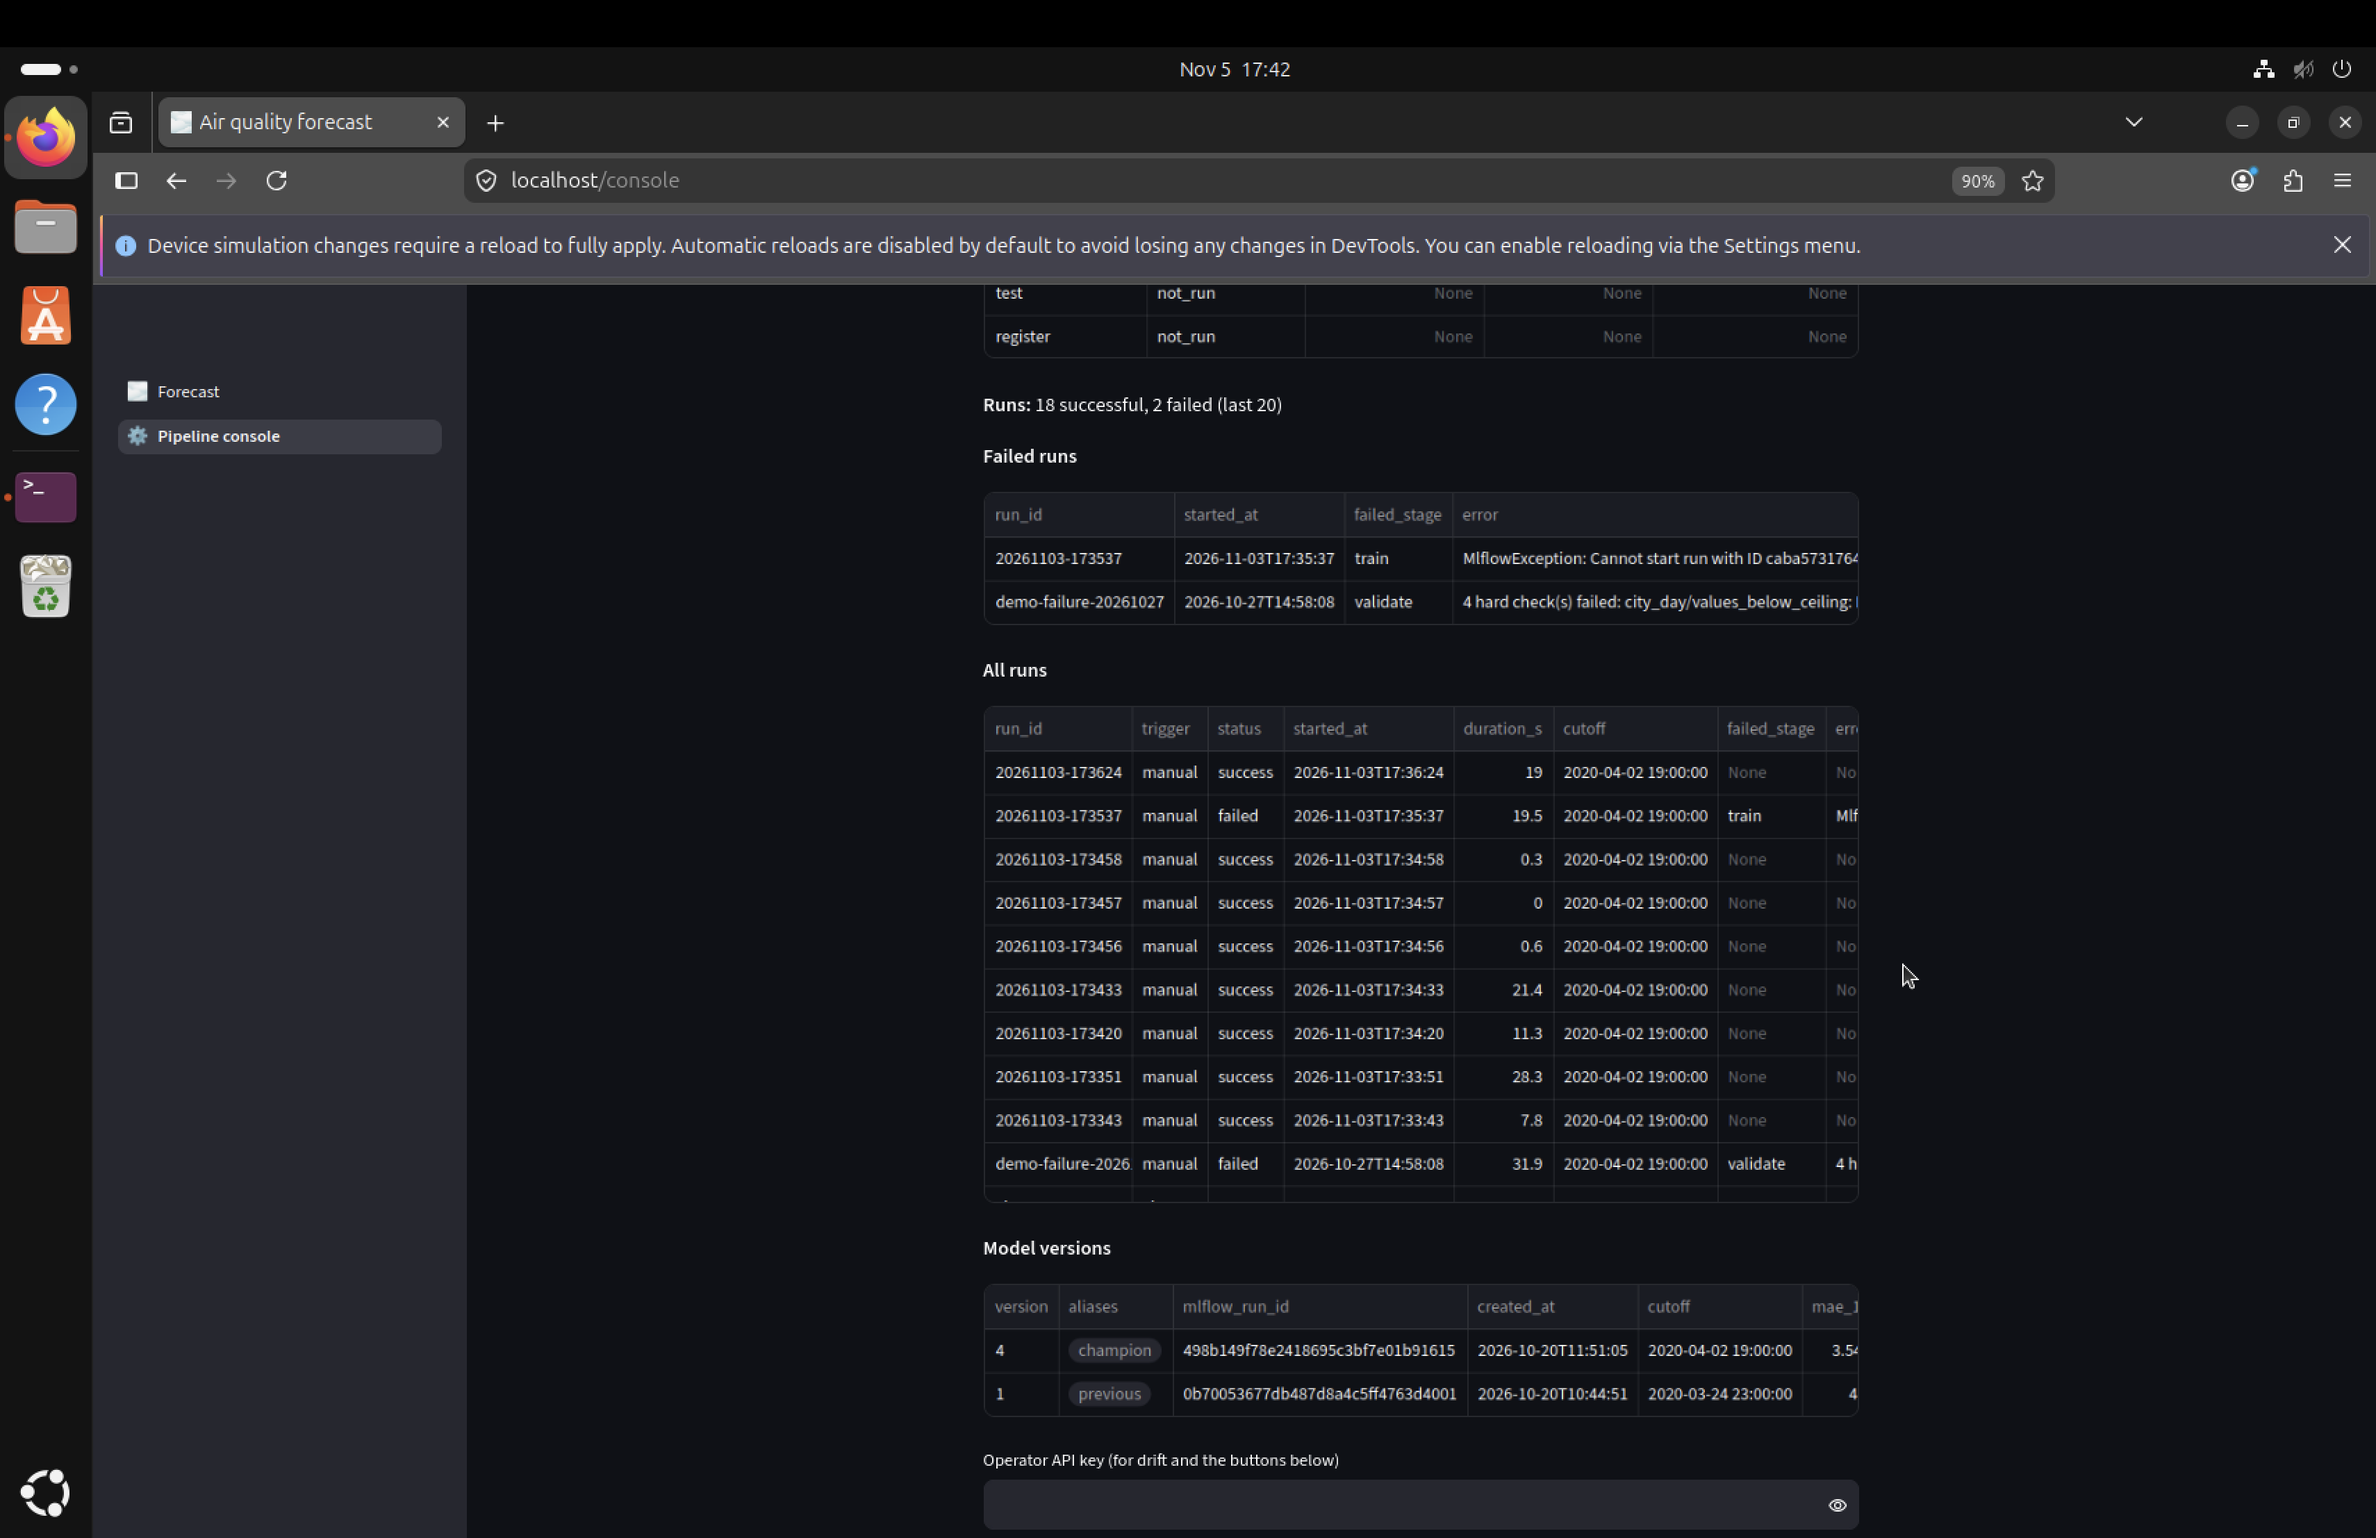
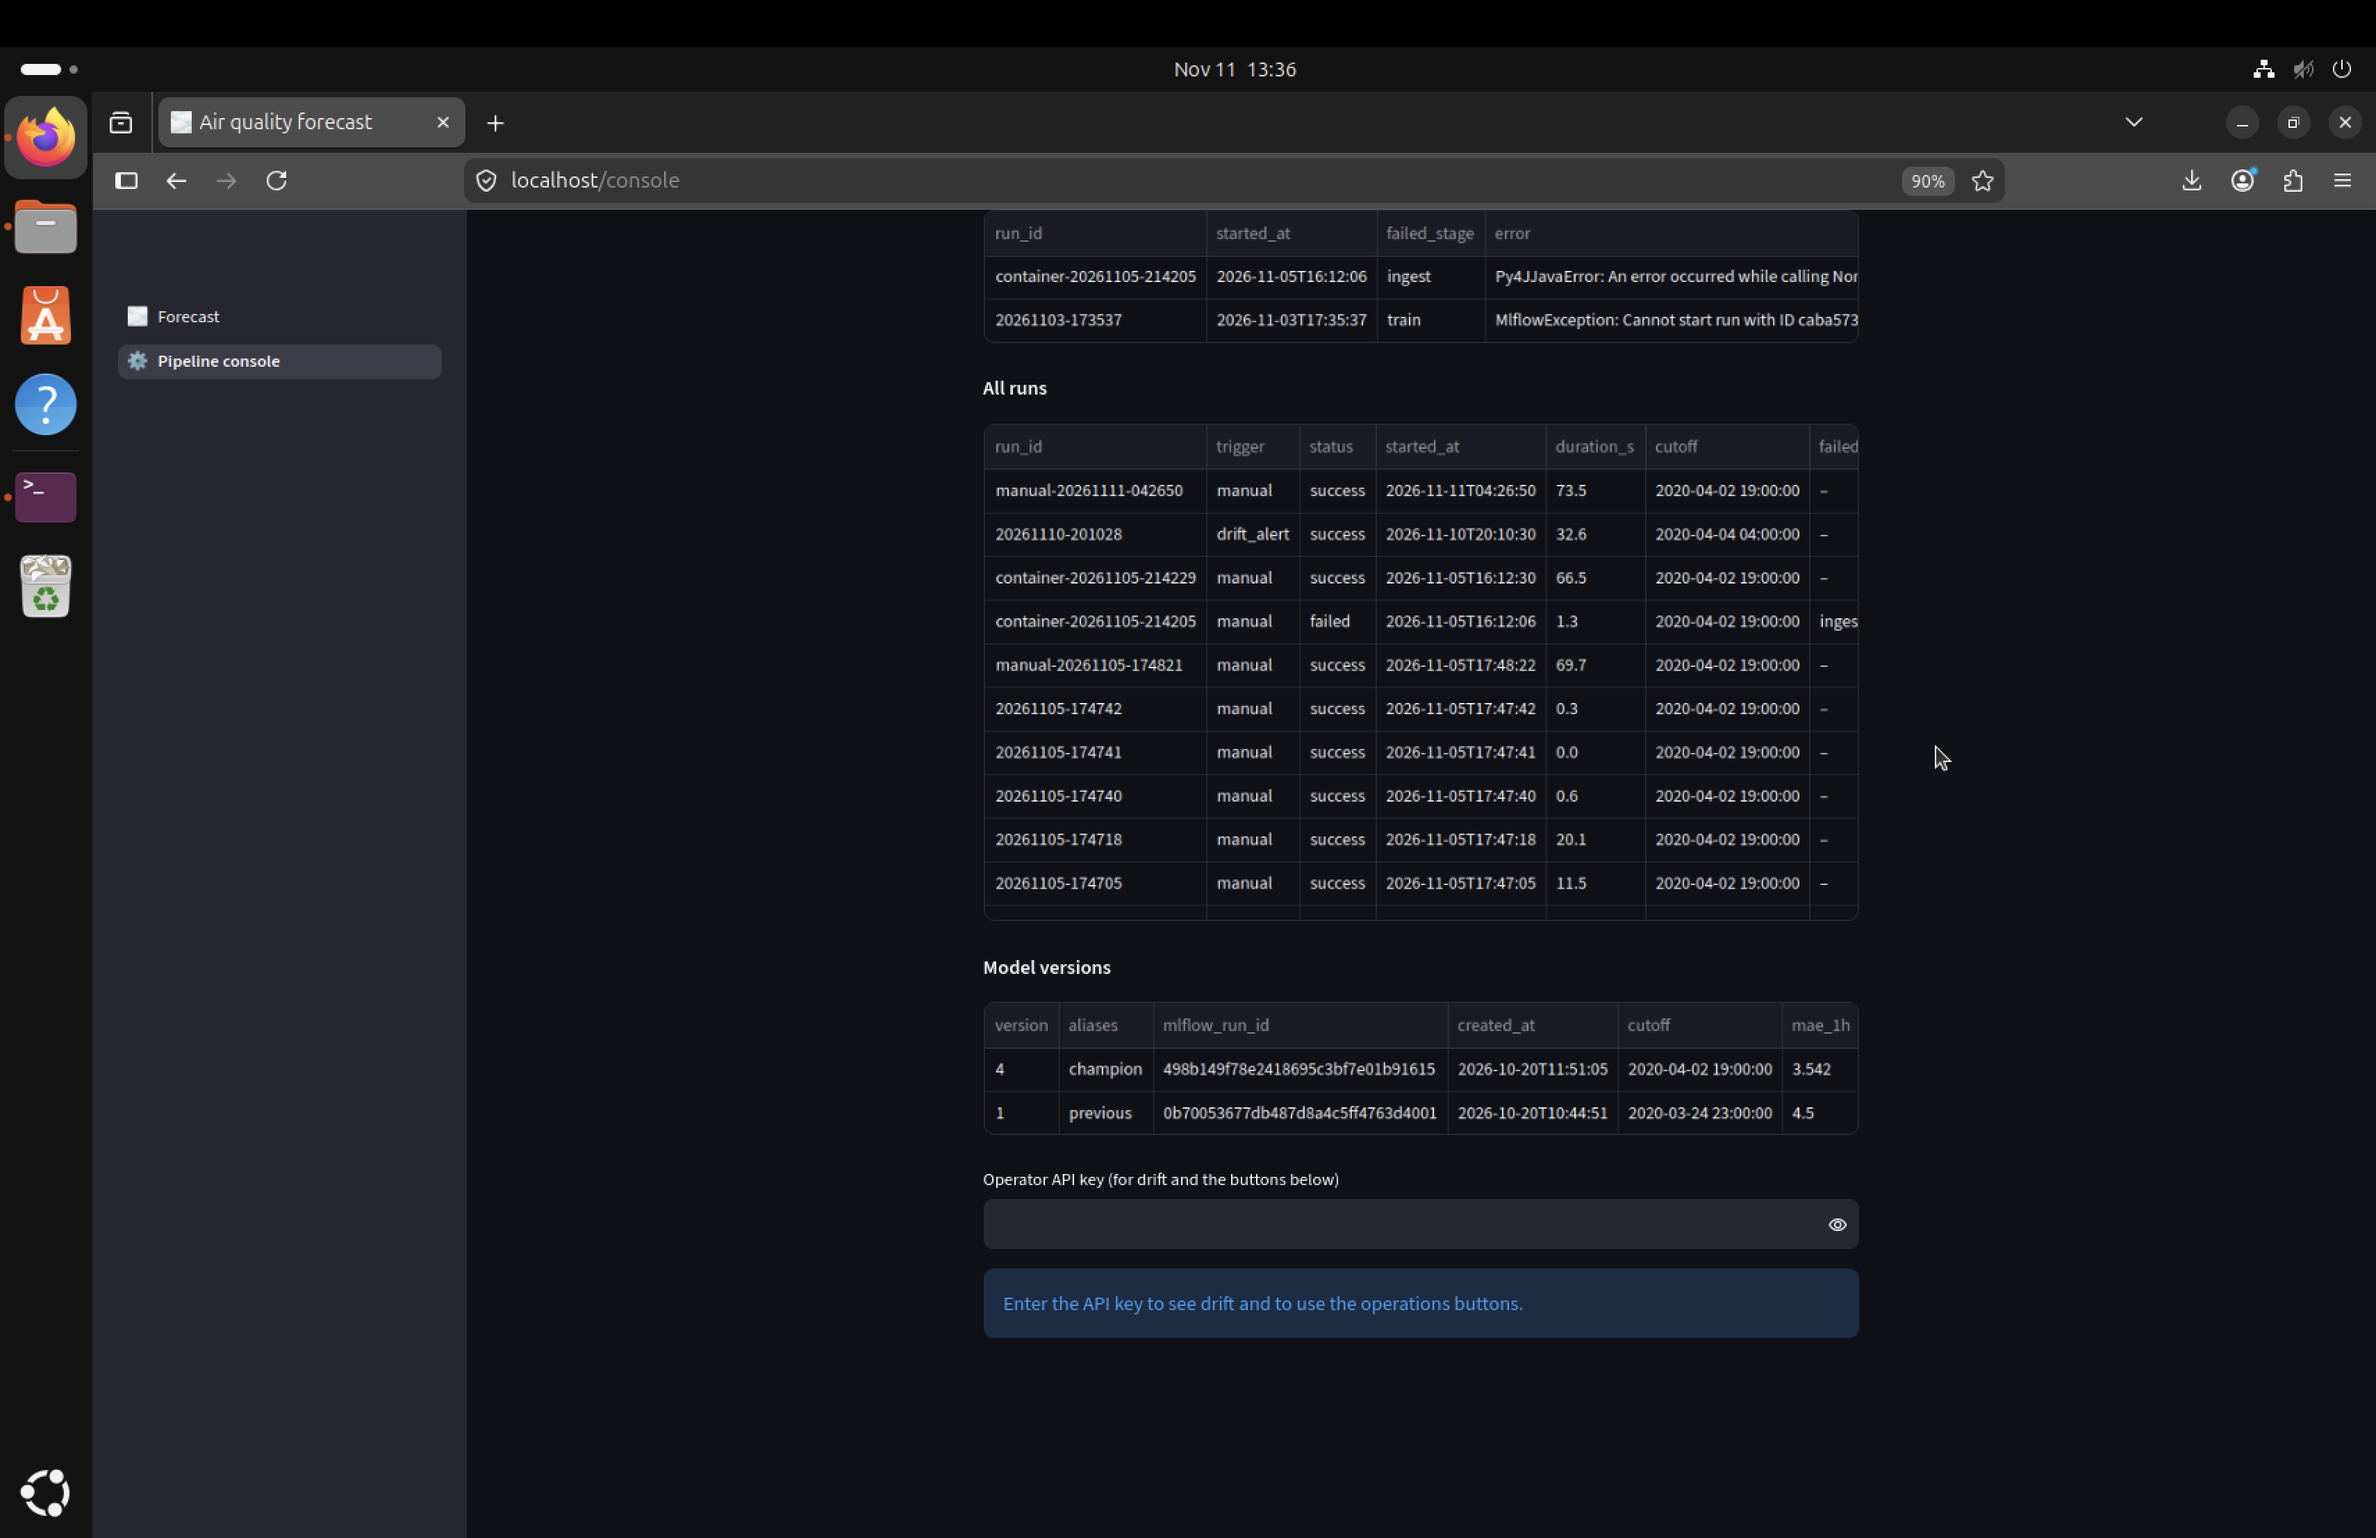
Console screenshots retaken after the 7-stage run, evidence captions, CI log
08/09 in docs/screenshots and 02_pipeline_viz/01 and 02 in the evidence
gallery are hand-taken Firefox captures of /console: last run
manual-20261111-042650 with all 7 stages green, "–" for empty cells.
Evidence index captions and the "What I could not capture" note now
describe that run. CI check run: 371 passed, DVC clean and in sync.

diff --git a/docs/evidence/README.md b/docs/evidence/README.md
@@ -6,6 +6,8 @@ The first capture run made 222 images. I kept the one or two clearest per rubric
 
 **Retaken on 2026-11-11.** Three images showed an old test count, so I retook them on the host with the Pillow renderer (`python scripts/capture_evidence.py terminal-pil --only <path>`), at `acd9531` with the console table change in the workspace: `05_testing/03` (now a transcript of the report's summary section, not the rendered page), `05_testing/05` and `07_source_control_ci/03`. All three show 371 of 371.
 
+**Two console captures taken by hand on 2026-11-11.** After a forced full pipeline run (`manual-20261111-042650`, all 7 stages green) and the frontend rebuild that shows "–" instead of `None` in the tables, I took `02_pipeline_viz/01_console_top` and `02_pipeline_viz/02_runs_and_failures` myself in Firefox at 13:36. They are the same files as `docs/screenshots/08_console_top.png` and `09_console_runs.png`, so they have no dark caption strip. The browser bar shows the URL and the desktop clock shows the time.
+
 **How it was made.** `docs/evidence/` was captured automatically by `scripts/capture_evidence.py` (Playwright in Docker, image `mcr.microsoft.com/playwright/python:v1.49.1-noble`, arm64), written by Claude Code under my direction. `scripts/capture_evidence_host.sh` runs the terminal commands on the host and drives the live story. Run again, the scripts make the full uncurated set under the original file names. The 11 user-manual screenshots in `docs/screenshots/` were taken by me by hand. No browser was installed on the VM, and the Playwright image was removed afterwards.
 
 **The API key** is not in any image or text file. The script types it into the console's masked field (dots only), checks the visible text of every page before saving the screenshot, and stops if the key is there. Commands that use the key show the literal text `$OPS_API_KEY`. The final set was checked again, by text search and by looking at every image with a key field, an ops section or a terminal.
@@ -51,11 +53,11 @@ Paths are relative to this folder.
 
 | Rubric line | Evidence | Caption |
 |---|---|---|
-| Separate UI screen for the pipeline incl. ingestion and engineering | [02_pipeline_viz/01_console_top.png](02_pipeline_viz/01_console_top.png) | `/console`: status boxes, the 7-stage DVC DAG coloured by status, the stage table |
+| Separate UI screen for the pipeline incl. ingestion and engineering | [02_pipeline_viz/01_console_top.png](02_pipeline_viz/01_console_top.png) | `/console`: status boxes (backend ok, model server up, champion 4), the 7-stage DVC DAG coloured by status with all 7 green for `manual-20261111-042650`, the stage table |
 | MLOps tool UIs | [02_pipeline_viz/06_grafana_pipeline.png](02_pipeline_viz/06_grafana_pipeline.png), [08_experiment_tracking/01_runs.png](08_experiment_tracking/01_runs.png) | Grafana "AQ pipeline" over 7 days and MLflow, both linked from the console |
 | Pipeline management console | [02_pipeline_viz/05_ops_section.png](02_pipeline_viz/05_ops_section.png), [02_pipeline_viz/04_drift_with_key.png](02_pipeline_viz/04_drift_with_key.png) | Replay start/stop/reset, retrain and rollback buttons and live drift, behind the masked key |
-| Console of errors, failures and successful runs | [02_pipeline_viz/02_runs_and_failures.png](02_pipeline_viz/02_runs_and_failures.png) | Success and failure counts, the failed runs with stage and error, the run table |
-| Pipeline speed and throughput | [02_pipeline_viz/01_console_top.png](02_pipeline_viz/01_console_top.png), [02_pipeline_viz/06_grafana_pipeline.png](02_pipeline_viz/06_grafana_pipeline.png) | Duration, rows out and rows/sec per stage, and over time in Grafana |
+| Console of errors, failures and successful runs | [02_pipeline_viz/02_runs_and_failures.png](02_pipeline_viz/02_runs_and_failures.png) | Success and failure counts (18 and 2 of the last 20), the two failed runs with stage and error, the run table with `manual-20261111-042650` on top, and the registry with v4 champion and v1 previous |
+| Pipeline speed and throughput | [02_pipeline_viz/01_console_top.png](02_pipeline_viz/01_console_top.png), [02_pipeline_viz/06_grafana_pipeline.png](02_pipeline_viz/06_grafana_pipeline.png) | Duration, rows out and rows/sec per stage (ingest 11.9 s at 289,706 rows/s), and over time in Grafana |
 
 ### Software Engineering: Design Principle [2]
 
@@ -164,6 +166,6 @@ Paths are relative to this folder.
 
 - **The browser padlock.** Headless Chromium screenshots show only the page, not the address bar. The TLS proof is the terminal capture `11_guidelines/13_tls_certificate` (subject, issuer, protocol and `Verify return code: 0` against my CA). My hand-taken `docs/screenshots/01_start.png` shows the browser side.
 - **The Docker Hub website.** hub.docker.com answers a headless browser with a Cloudflare "verify you are human" page, so I did not take those screenshots. Docker Hub's own API (`11_guidelines/17_dockerhub_api`) shows the same tags and platforms.
-- **A fresh Spark ingest and validate.** Rerunning them needs the serve stack stopped, which I allow only for batch work, not for screenshots. The live retrain reran `features` and `train` (`11_guidelines/09_story_pipeline_log`). The full 7-stage Spark output is the recorded CI run of 2026-10-21 (`06_data_engineering/02_spark_repro_log`), and every stage's numbers since October are in `06_data_engineering/03_throughput_history`.
+- **A fresh Spark ingest and validate in the evidence run.** Rerunning them needs the serve stack stopped, which I allow only for batch work, not for screenshots, so the live retrain reran only `features` and `train` (`11_guidelines/09_story_pipeline_log`). On 2026-11-11 I stopped the stack for a forced batch run, `dvc repro -f` as `manual-20261111-042650`: all 7 stages passed in 73.5 s of stage time, and the gate kept v4 because the candidate tied it at a mean MAE of 6.467. I did not capture that run's terminal output, but the console captures `02_pipeline_viz/01` and `02` show its stage table and its row in the run list. The full 7-stage Spark log in the gallery is still the recorded CI run of 2026-10-21 (`06_data_engineering/02_spark_repro_log`), and every stage's numbers since October are in `06_data_engineering/03_throughput_history`.
 - **A promotion today.** The gate rejected today's candidate, so the story shows a rejection, not a new champion. The October run that promoted v4 is the champion run in `08_experiment_tracking`.
 - **The rollback steps were retaken.** The first try failed because my capture script typed the wrong text into the version box (its label contains "="). The backend refused that value and nothing changed. I fixed the script and took 11 and 12 again; their caption times are a few minutes after the gate decision.
